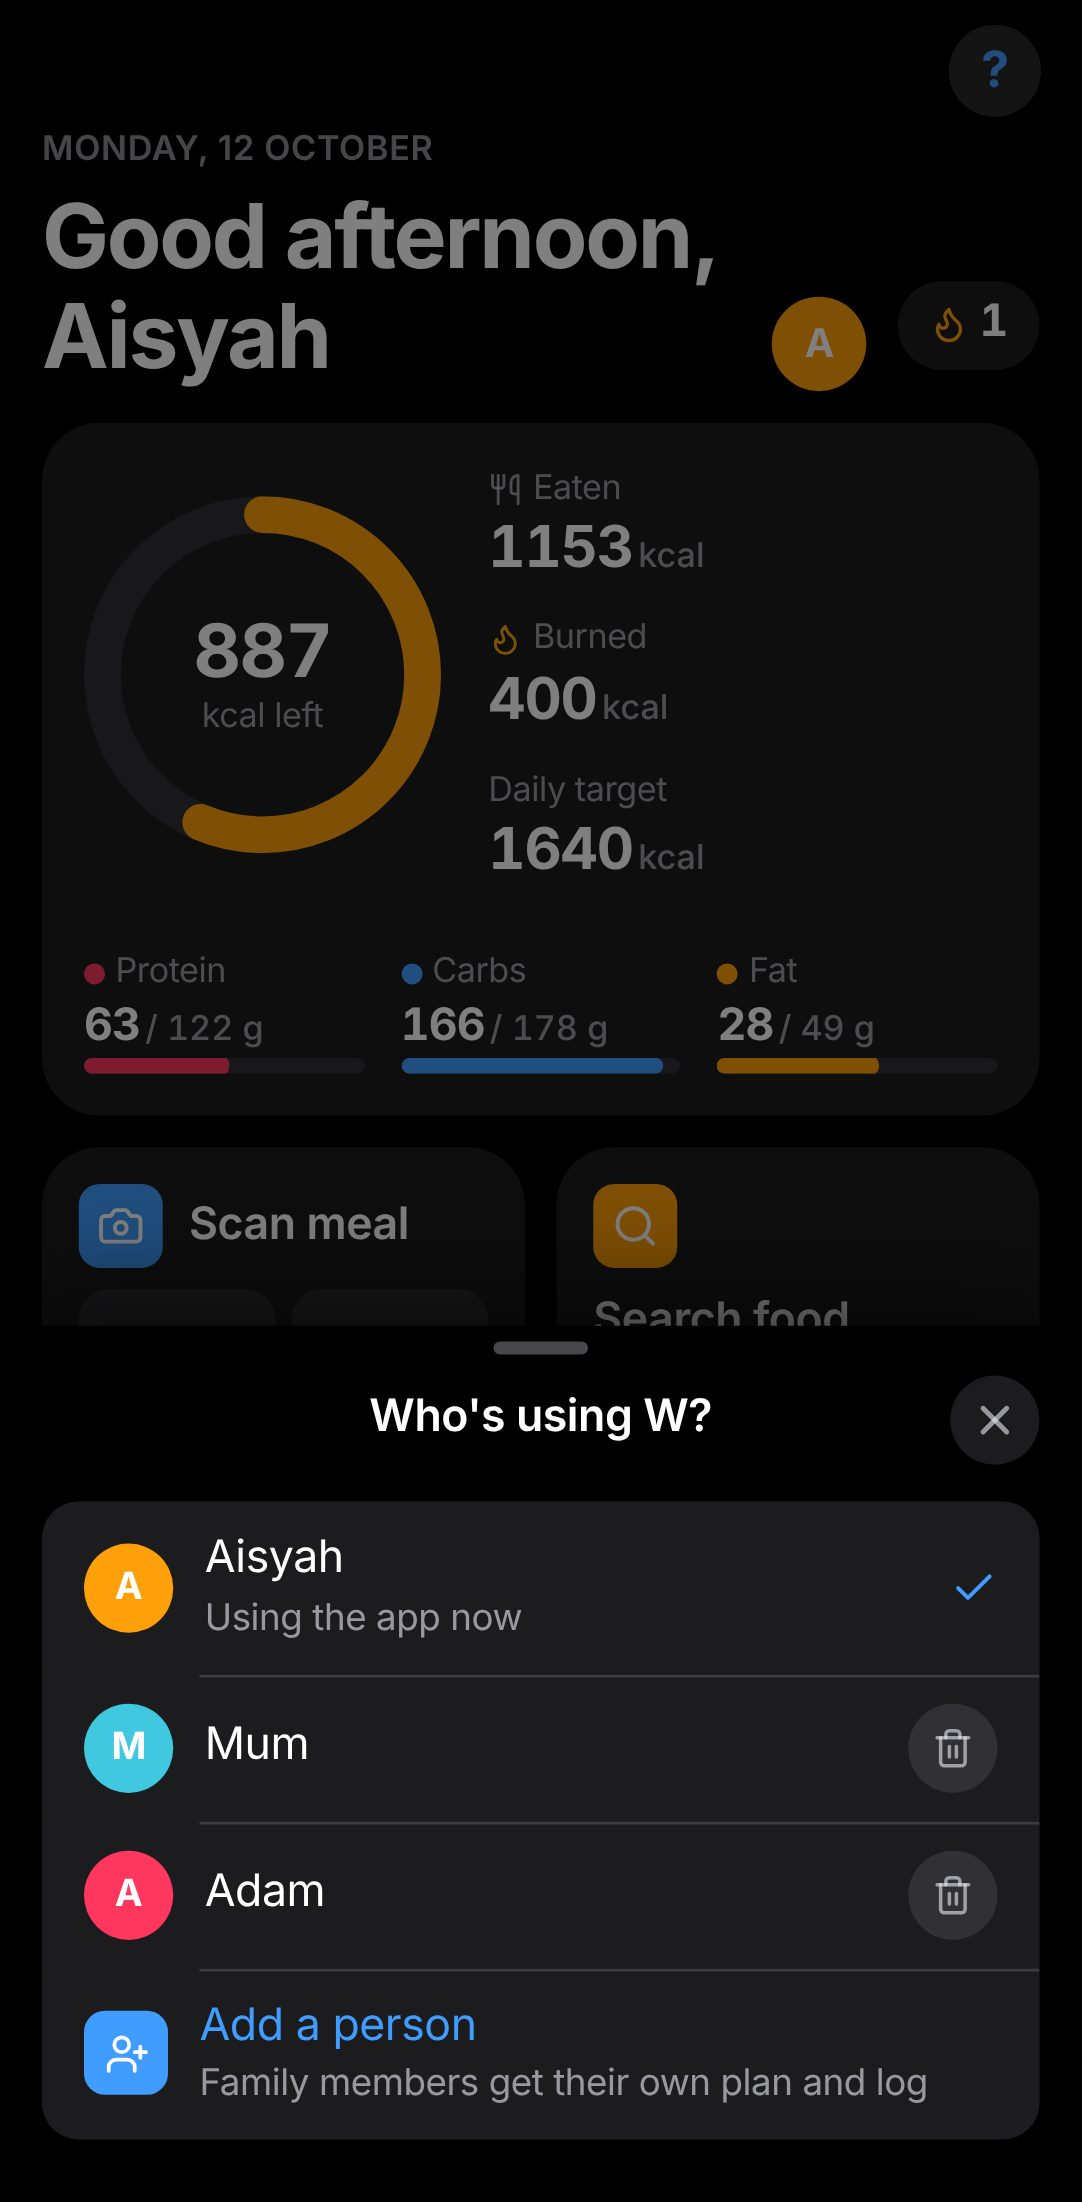
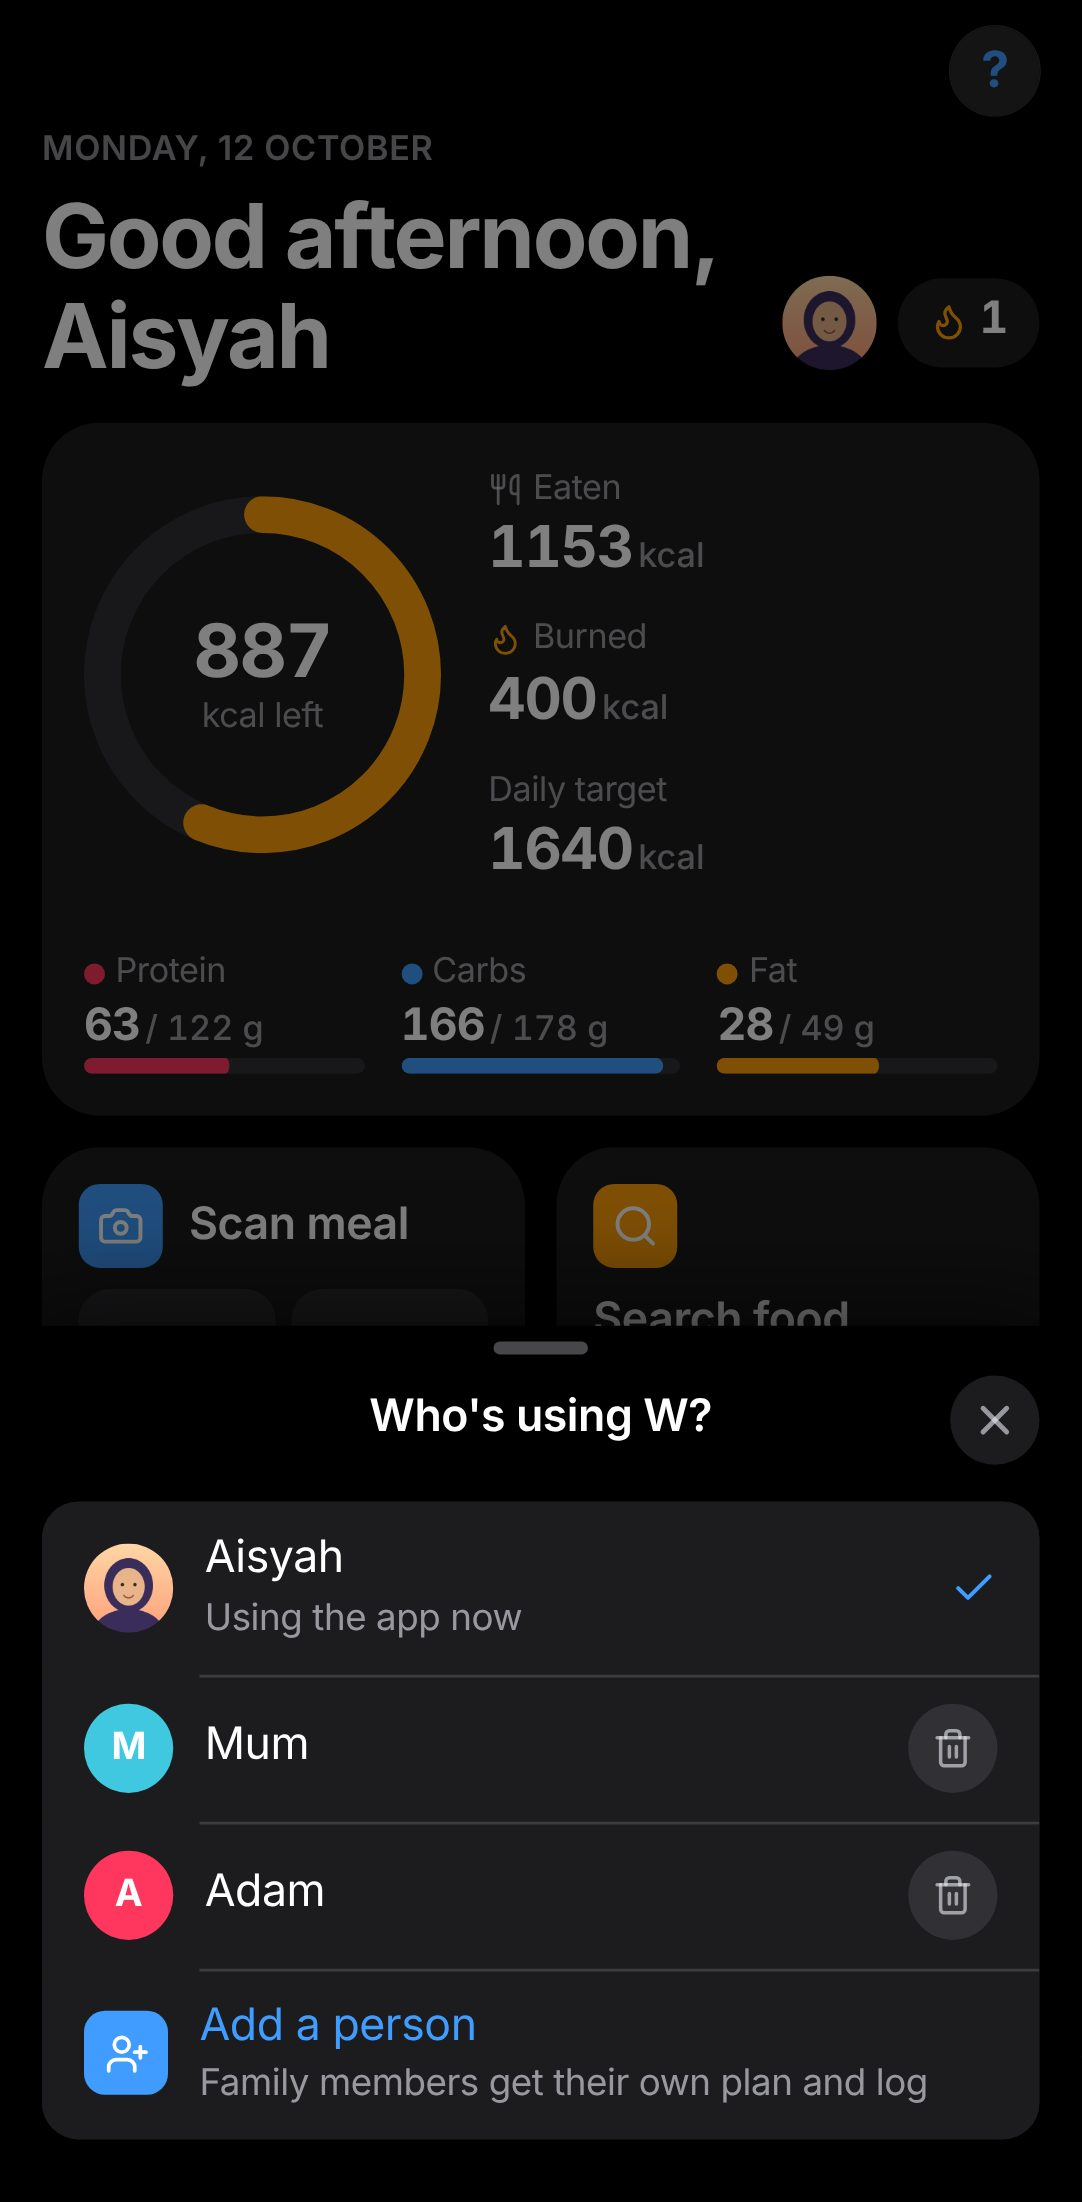
Refresh screenshots: no sign-up, profile photos
Claude-Session: https://claude.ai/code/session_019NBcuk3pD24B8vpD58uY5d

Changed region(s): [[0.7015, 0.1235, 0.8235, 0.1853], [0.061, 0.6794, 0.183, 0.7411], [0.854, 0.1235, 0.8845, 0.1544]]

diff --git a/README.md b/README.md
@@ -52,8 +52,8 @@ iPhone in light mode. The Android set, in dark mode, is below it. Regenerate bot
 
 <table><tr>
 <td align="center" valign="top" width="200"><img src="docs/screenshots/ios/01-intro-guide.jpg" width="190" alt="Welcome guide (with Skip)"><br><sub>Welcome guide (with Skip)</sub></td>
-<td align="center" valign="top" width="200"><img src="docs/screenshots/ios/02-sign-in.jpg" width="190" alt="Sign in: Apple, Google or email"><br><sub>Sign in: Apple, Google or email</sub></td>
-<td align="center" valign="top" width="200"><img src="docs/screenshots/ios/03-create-account.jpg" width="190" alt="Create an account"><br><sub>Create an account</sub></td>
+<td align="center" valign="top" width="200"><img src="docs/screenshots/ios/02-onboarding-welcome.jpg" width="190" alt="No sign-up: start here"><br><sub>No sign-up: start here</sub></td>
+<td align="center" valign="top" width="200"><img src="docs/screenshots/ios/03-onboarding-about-you.jpg" width="190" alt="Your profile, with a photo"><br><sub>Your profile, with a photo</sub></td>
 <td align="center" valign="top" width="200"><img src="docs/screenshots/ios/04-onboarding-goal.jpg" width="190" alt="Set your goal"><br><sub>Set your goal</sub></td>
 <td align="center" valign="top" width="200"><img src="docs/screenshots/ios/05-guided-tour.jpg" width="190" alt="Step-by-step tour (? button)"><br><sub>Step-by-step tour (? button)</sub></td>
 </tr></table>
@@ -117,7 +117,7 @@ iPhone in light mode. The Android set, in dark mode, is below it. Regenerate bot
 <td align="center" valign="top" width="200"><img src="docs/screenshots/ios/34-profile-reminders-language.jpg" width="190" alt="Reminders, goals, language, export"><br><sub>Reminders, goals, language, export</sub></td>
 <td align="center" valign="top" width="200"><img src="docs/screenshots/ios/35-profile-cycle.jpg" width="190" alt="Cycle tracking settings"><br><sub>Cycle tracking settings</sub></td>
 <td align="center" valign="top" width="200"><img src="docs/screenshots/ios/36-cycle-today.jpg" width="190" alt="Cycle day, phase and tips"><br><sub>Cycle day, phase and tips</sub></td>
-<td align="center" valign="top" width="200"><img src="docs/screenshots/ios/37-switch-person.jpg" width="190" alt="Family members, one account"><br><sub>Family members, one account</sub></td>
+<td align="center" valign="top" width="200"><img src="docs/screenshots/ios/37-switch-person.jpg" width="190" alt="Family members on one phone"><br><sub>Family members on one phone</sub></td>
 <td align="center" valign="top" width="200"><img src="docs/screenshots/ios/38-ramadan-today.jpg" width="190" alt="Ramadan: countdown to iftar"><br><sub>Ramadan: countdown to iftar</sub></td>
 <td align="center" valign="top" width="200"><img src="docs/screenshots/ios/39-ramadan-meals.jpg" width="190" alt="Sahur, Iftar and Moreh"><br><sub>Sahur, Iftar and Moreh</sub></td>
 <td align="center" valign="top" width="200"><img src="docs/screenshots/ios/40-language-malay.jpg" width="190" alt="Bahasa Melayu"><br><sub>Bahasa Melayu</sub></td>
@@ -131,8 +131,8 @@ iPhone in light mode. The Android set, in dark mode, is below it. Regenerate bot
 
 <table><tr>
 <td align="center" valign="top" width="200"><img src="docs/screenshots/android/01-intro-guide.jpg" width="190" alt="Welcome guide (with Skip)"><br><sub>Welcome guide (with Skip)</sub></td>
-<td align="center" valign="top" width="200"><img src="docs/screenshots/android/02-sign-in.jpg" width="190" alt="Sign in: Apple, Google or email"><br><sub>Sign in: Apple, Google or email</sub></td>
-<td align="center" valign="top" width="200"><img src="docs/screenshots/android/03-create-account.jpg" width="190" alt="Create an account"><br><sub>Create an account</sub></td>
+<td align="center" valign="top" width="200"><img src="docs/screenshots/android/02-onboarding-welcome.jpg" width="190" alt="No sign-up: start here"><br><sub>No sign-up: start here</sub></td>
+<td align="center" valign="top" width="200"><img src="docs/screenshots/android/03-onboarding-about-you.jpg" width="190" alt="Your profile, with a photo"><br><sub>Your profile, with a photo</sub></td>
 <td align="center" valign="top" width="200"><img src="docs/screenshots/android/04-onboarding-goal.jpg" width="190" alt="Set your goal"><br><sub>Set your goal</sub></td>
 <td align="center" valign="top" width="200"><img src="docs/screenshots/android/05-guided-tour.jpg" width="190" alt="Step-by-step tour (? button)"><br><sub>Step-by-step tour (? button)</sub></td>
 </tr></table>
@@ -196,7 +196,7 @@ iPhone in light mode. The Android set, in dark mode, is below it. Regenerate bot
 <td align="center" valign="top" width="200"><img src="docs/screenshots/android/34-profile-reminders-language.jpg" width="190" alt="Reminders, goals, language, export"><br><sub>Reminders, goals, language, export</sub></td>
 <td align="center" valign="top" width="200"><img src="docs/screenshots/android/35-profile-cycle.jpg" width="190" alt="Cycle tracking settings"><br><sub>Cycle tracking settings</sub></td>
 <td align="center" valign="top" width="200"><img src="docs/screenshots/android/36-cycle-today.jpg" width="190" alt="Cycle day, phase and tips"><br><sub>Cycle day, phase and tips</sub></td>
-<td align="center" valign="top" width="200"><img src="docs/screenshots/android/37-switch-person.jpg" width="190" alt="Family members, one account"><br><sub>Family members, one account</sub></td>
+<td align="center" valign="top" width="200"><img src="docs/screenshots/android/37-switch-person.jpg" width="190" alt="Family members on one phone"><br><sub>Family members on one phone</sub></td>
 <td align="center" valign="top" width="200"><img src="docs/screenshots/android/38-ramadan-today.jpg" width="190" alt="Ramadan: countdown to iftar"><br><sub>Ramadan: countdown to iftar</sub></td>
 <td align="center" valign="top" width="200"><img src="docs/screenshots/android/39-ramadan-meals.jpg" width="190" alt="Sahur, Iftar and Moreh"><br><sub>Sahur, Iftar and Moreh</sub></td>
 <td align="center" valign="top" width="200"><img src="docs/screenshots/android/40-language-malay.jpg" width="190" alt="Bahasa Melayu"><br><sub>Bahasa Melayu</sub></td>
